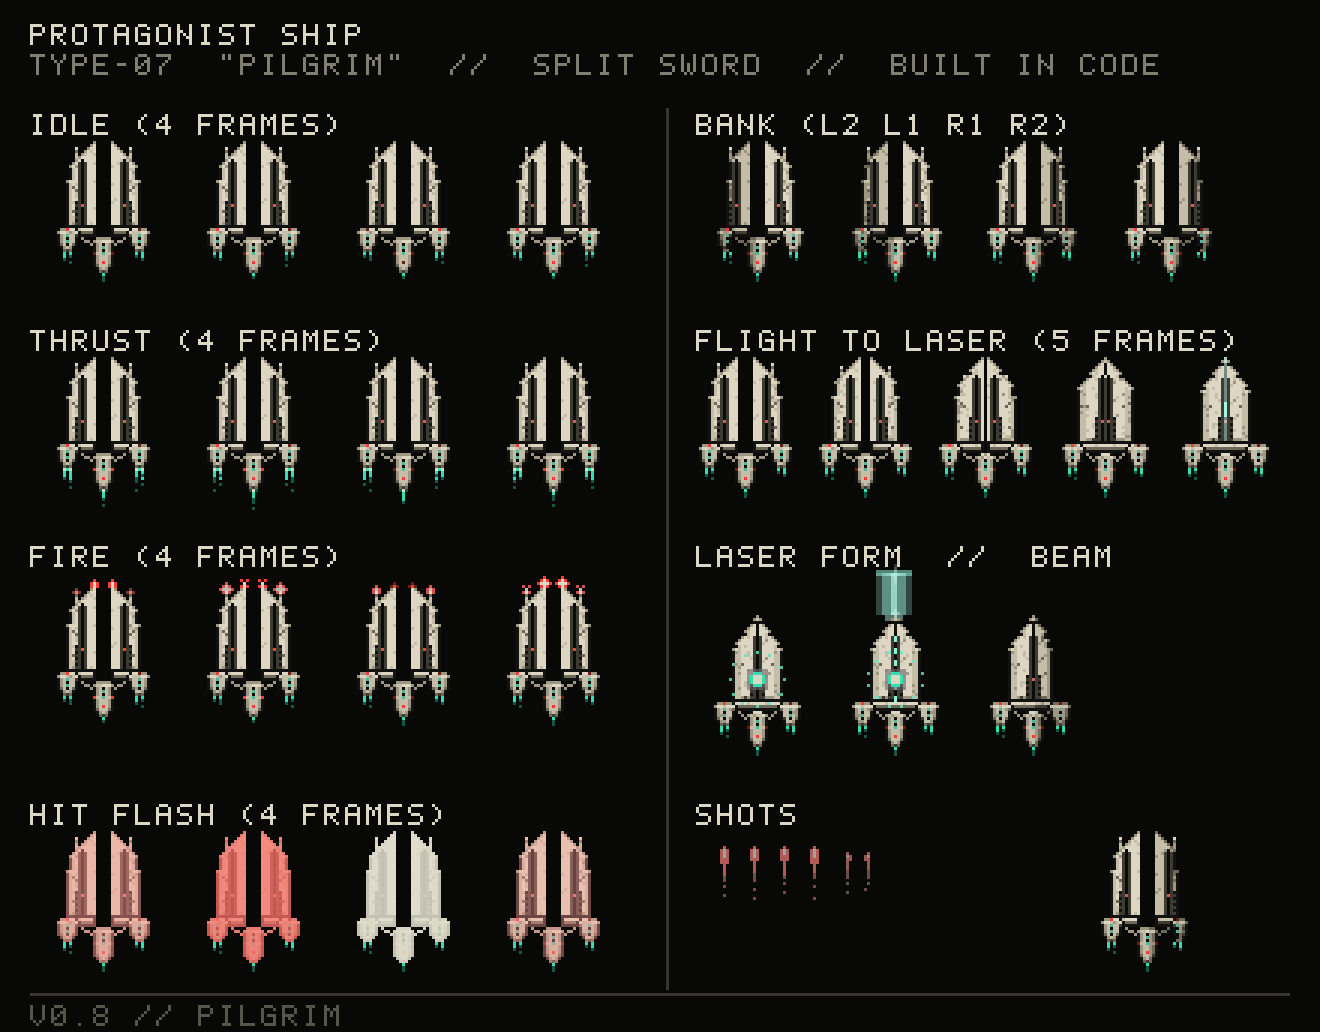
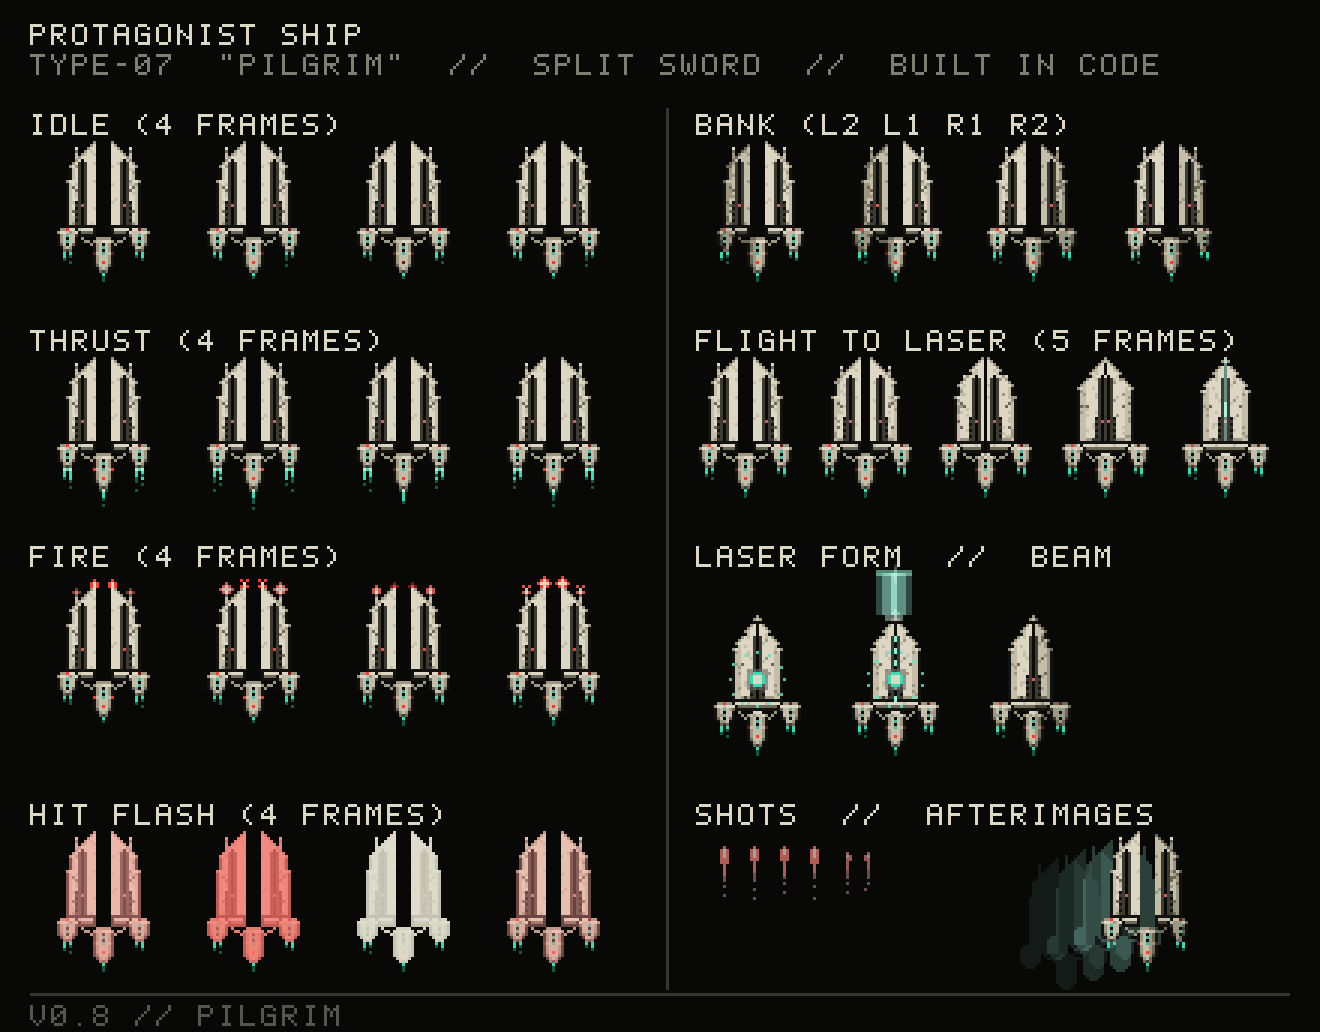
v0.8.3 Clean sides: banking keeps the white down the dipping side, and the afterimages are back
Jason: the teal outlines when moving were gone, and the muddy sides hadn't
changed; the side that dips loses its white, while the laser form's sides
stay clean.

The cause, behind every report since v0.7.3: to roll, ship.rs drops a column
or two from the dipping side. In flight form it took the two columns of white
stone between each blade's channel and its outline, so moving sideways left
the dark channel against the outline. The laser form's face is wide enough
that white survived the same drop.

dropped() now keeps FACE_KEEP (2) columns of stone outside the channel. It
narrows the inner face next, down to RAIL_KEEP (2): it takes the column at
the blade's inner edge, so the tip comes down a row and the top keeps one
even slope (a column from the middle left the tip standing alone). Below the
crossbar that drop moves to the column just outside the capsule, so drops
are now per row. After that it takes the nacelle's plain columns. The laser
form rolls exactly as before.

v0.8.2 removed the afterimages because I misread his screenshot; they're
restored as they were in v0.8.1, along with their test.

Checked: a new test proves the dipping side keeps two columns of stone, at
least one of them light, on every frame and bank, and that the blade's top
steps out at most one column a row; it fails on v0.8.2's roll. Play frames
captured while the bot moves sideways at full speed show the afterimages and
the intact stone. 237 tests pass in debug and release; native and web builds
[…]

diff --git a/src/render/ship.rs b/src/render/ship.rs
@@ -262,32 +262,63 @@ fn line(a: (i32, i32), b: (i32, i32)) -> Vec<(i32, i32)> {
         .collect()
 }
 
+/// Columns of stone a roll leaves inside the outline on the dipping side, outboard
+/// of the channel (the white face and its bevel) and inboard of it (the rail).
+const FACE_KEEP: usize = 2;
+const RAIL_KEEP: usize = 2;
+
+/// Up to `n` columns from the middle of `plain`.
+fn middle(plain: &[i32], n: usize) -> Vec<i32> {
+    plain.iter().skip((plain.len() / 2).saturating_sub(n.saturating_sub(1))).take(n).copied().collect()
+}
+
+const ROWS: usize = SIZE.1 as usize;
+/// A column a roll drops, row by row (`[y + CY]`).
+type Drop = [i32; ROWS];
+
 /// The columns a roll drops from the dipping side, one per step of the roll: plain
-/// stone from the middle of the blade's outer face (never a channel, a window, a
-/// light or the antenna), so the face foreshortens and everything outboard of it
-/// slides in whole.
-fn dropped(map: &Map, bank: i8) -> Vec<i32> {
+/// stone (never a channel, a window, a light or the antenna), so the side
+/// foreshortens and everything outboard of it slides in whole. The outer face
+/// always keeps its white stone and bevel: without them the channel runs straight
+/// into the outline and the side goes muddy. So a slim blade gives up its inner
+/// face first, then the nacelle's plain columns.
+fn dropped(map: &Map, bank: i8) -> Vec<Drop> {
     let side = bank.signum() as i32;
-    let precious = |x: i32| (-CY..=CY).any(|y| matches!(map.at(x, y).0, M::Core | M::Wall | M::Groove | M::Window | M::Red | M::Antenna | M::Seam));
-    let face: Vec<i32> = (1..=CX).rev().map(|x| x * side).filter(|&x| map.at(x, 0).0 == M::Face).collect();
-    let plain: Vec<i32> = face.iter().skip(1).copied().filter(|&x| !precious(x)).collect();
-    // beyond the blade, the nacelle's own plain columns (not its rim)
-    let edge = face.first().map_or(CX, |x| x.abs());
-    let outboard: Vec<i32> = (edge + 1..CX).map(|x| x * side).filter(|&x| !precious(x) && (-CY..=CY).any(|y| map.at(x, y).0 == M::Metal) && map.at(x + side, NACELLE_ROWS.0 + 2).0 != M::Empty).collect();
     let steps = bank.unsigned_abs() as usize;
     if steps == 0 {
         return vec![];
     }
-    let mid = plain.len() / 2;
-    let mut pick: Vec<i32> = plain.iter().skip(mid.saturating_sub(steps - 1)).take(steps).copied().collect();
-    pick.extend(outboard.iter().take(steps - pick.len()));
+    let precious = |x: i32, rows: std::ops::RangeInclusive<i32>| rows.into_iter().any(|y| matches!(map.at(x, y).0, M::Core | M::Wall | M::Groove | M::Window | M::Red | M::Antenna | M::Seam));
+    // the dipping side's columns, outermost first, by what they are on the hitbox's row
+    let cols: Vec<i32> = (1..=CX).rev().map(|x| x * side).collect();
+    let on = |m: M| cols.iter().copied().filter(move |&x| map.at(x, 0).0 == m);
+    let edge = on(M::Face).next().map_or(CX, |x| x.abs());
+    // the outer face: the stone between the outline and the channel
+    let stone: Vec<i32> = cols.iter().copied().filter(|&x| x.abs() < edge).take_while(|&x| !matches!(map.at(x, 0).0, M::Groove | M::Wall | M::Core)).collect();
+    let plain: Vec<i32> = stone.iter().copied().filter(|&x| map.at(x, 0).0 == M::Face && !precious(x, -CY..=CY)).collect();
+    let mut pick: Vec<Drop> = middle(&plain, steps.min(stone.len().saturating_sub(FACE_KEEP))).into_iter().map(|x| [x; ROWS]).collect();
+    // then the inner face, a column at a time off its edge, so the tip comes down a
+    // row and the bevelled top stays one even slope (a column from its middle left
+    // the tip standing alone); below the crossbar, the column just outside the
+    // capsule goes instead
+    let rail: Vec<i32> = on(M::Rail).collect();
+    for i in 0..(steps - pick.len()).min(rail.len().saturating_sub(RAIL_KEEP)) {
+        let (high, low) = (rail[rail.len() - 1 - i], (POD_W + 1 + i as i32) * side);
+        if precious(high, -CY..=POD_ROWS.0 - 1) || precious(low, POD_ROWS.0..=CY) {
+            break;
+        }
+        pick.push(std::array::from_fn(|r| if (r as i32 - CY) < POD_ROWS.0 { high } else { low }));
+    }
+    // then, beyond the blade, the nacelle's own plain columns (not its rim)
+    let outboard: Vec<i32> = (edge + 1..CX).map(|x| x * side).filter(|&x| !precious(x, -CY..=CY) && (-CY..=CY).any(|y| map.at(x, y).0 == M::Metal) && map.at(x + side, NACELLE_ROWS.0 + 2).0 != M::Empty).collect();
+    pick.extend(outboard.iter().take(steps - pick.len()).map(|&x| [x; ROWS]));
     pick
 }
 
-/// Where a column of the unrolled ship lands at a roll.
-fn roll_x(x: i32, drop: &[i32]) -> i32 {
-    let side = x.signum();
-    x - side * drop.iter().filter(|&&d| d.signum() == side && d.abs() < x.abs()).count() as i32
+/// Where a pixel of the unrolled ship lands at a roll (its row doesn't change).
+fn roll_x(x: i32, y: i32, drop: &[Drop]) -> i32 {
+    let (side, r) = (x.signum(), (y + CY).clamp(0, ROWS as i32 - 1) as usize);
+    x - side * drop.iter().filter(|d| d[r].signum() == side && d[r].abs() < x.abs()).count() as i32
 }
 
 /// The ship rolled by `bank`: the dipping side loses its dropped columns.
@@ -296,8 +327,8 @@ fn roll(map: &Map, bank: i8) -> Map {
     let mut out = Map::new();
     for y in -CY..=CY {
         for x in -CX..=CX {
-            if !drop.contains(&x) {
-                out.set(roll_x(x, &drop), y, map.at(x, y));
+            if !drop.iter().any(|d| d[(y + CY) as usize] == x) {
+                out.set(roll_x(x, y, &drop), y, map.at(x, y));
             }
         }
     }
@@ -589,7 +620,7 @@ fn frame_image(form: usize, bank: i8) -> (Image, Vec<Light>, [(i32, i32); 3], [(
     let flat = layout(k);
     let drop = dropped(&flat, bank);
     let map = roll(&flat, bank);
-    let at = |x: i32, y: i32| (roll_x(x, &drop), y);
+    let at = |x: i32, y: i32| (roll_x(x, y, &drop), y);
     let n = k.nacelle;
     let nozzles = [at(n, NACELLE_ROWS.1 + 2), at(-n, NACELLE_ROWS.1 + 2), at(0, POD_ROWS.1 + 2)];
     let tips = [at(k.inner, TIP), at(-k.inner, TIP)];
@@ -753,9 +784,18 @@ fn hit_overlay(a: &Atlas, sil: Rect, x: i32, y: i32, hit_t: u32) {
     a.blit(sil, x, y, 1, c);
 }
 
-/// The ship's silhouette at `(x, y)` (its hitbox), in one color: the respawn blink.
+/// The ship's silhouette at `(x, y)` (its hitbox), in one color: afterimages,
+/// the respawn blink.
 pub fn draw_silhouette(a: &Atlas, form: f32, bank: i8, x: i32, y: i32, c: Color) {
     a.blit(a.r.ship.frame(form, bank).sil, x - CX, y - CY, 1, c);
+}
+
+/// Teal afterimages of the ship at earlier positions (drawn under the ship).
+pub fn draw_afterimages(a: &Atlas, form: f32, bank: i8, at: &[(i32, i32)]) {
+    for (k, &(x, y)) in at.iter().enumerate() {
+        let alpha = [0.14, 0.08, 0.04][k.min(2)];
+        draw_silhouette(a, form, bank, x, y, Color { a: alpha, ..TEAL });
+    }
 }
 
 /// The hitbox dot and its ring, faded in with the focus blend.
@@ -892,6 +932,35 @@ mod tests {
                 let side = bank.signum() as i32;
                 assert!(reach(&r, side) < reach(&flat, side), "form {form} bank {bank}: the dipping side narrows");
                 assert_eq!(reach(&r, -side), reach(&flat, -side));
+            }
+        }
+    }
+
+    /// Rolling foreshortens the dipping side but never strips the stone outside its
+    /// channel: the white face and its bevel stay between the channel and the outline,
+    /// and the blade's tip stays one even slope. (Banked hard in flight, that side
+    /// used to lose both, leaving the dark channel against the outline.)
+    #[test]
+    fn rolling_keeps_the_white_down_the_dipping_side() {
+        for form in 0..FORMS {
+            for bank in [-2i8, -1, 1, 2] {
+                let side = bank.signum() as i32;
+                let map = roll(&layout(&KEYS[form]), bank);
+                let img = paint(&map, bank);
+                let shade = |x: i32, y: i32| luma(img.get_pixel((x + CX) as u32, (y + CY) as u32));
+                for y in [-12, -9, -4, 0, 4, 6] {
+                    // inward from the outline to the channel
+                    let blade: Vec<i32> = (1..=CX).rev().map(|x| x * side).filter(|&x| map.at(x, y).0 != M::Empty).collect();
+                    let stone: Vec<i32> = blade[1..].iter().copied().take_while(|&x| !matches!(map.at(x, y).0, M::Groove | M::Wall | M::Core)).collect();
+                    assert!(stone.len() >= FACE_KEEP, "form {form} bank {bank} row {y}: {} columns of stone", stone.len());
+                    assert!(stone.iter().any(|&x| shade(x, y) >= luma(BONE[2])), "form {form} bank {bank} row {y}: the stone stays light");
+                }
+                // the bevelled top: each row from the tip reaches at most one column
+                // further out than the row above it
+                let reach = |y: i32| (0..=CX).filter(|&x| x != 0 && solid(map.at(x * side, y).0)).count();
+                for y in TIP + 1..TIP + 6 {
+                    assert!(reach(y) <= reach(y - 1) + 1 || reach(y - 1) == 0, "form {form} bank {bank}: the top steps out one column a row at {y}");
+                }
             }
         }
     }

diff --git a/src/sim/player.rs b/src/sim/player.rs
@@ -30,6 +30,9 @@ impl Default for Tuning {
     }
 }
 
+/// Positions kept for afterimages, newest first.
+pub const HISTORY: usize = 8;
+
 pub struct Player {
     /// The hitbox center (the cross), sub-pixel; drawn snapped to the grid.
     pub x: f32,
@@ -56,6 +59,7 @@ pub struct Player {
     /// Hull flash frames left, and frames until it can flash again.
     pub hit_t: u32,
     pub bump_cd: u32,
+    pub history: [(f32, f32); HISTORY],
 }
 
 impl Player {
@@ -77,6 +81,7 @@ impl Player {
             volley: 0,
             hit_t: 0,
             bump_cd: 0,
+            history: [(START_X, START_Y); HISTORY],
         }
     }
 
@@ -92,6 +97,10 @@ impl Player {
     /// Speed this frame, px per frame.
     pub fn speed(&self, t: &Tuning) -> f32 {
         t.speed * (1.0 - self.blend(t) * (1.0 - t.focus_ratio))
+    }
+
+    pub fn focused(&self) -> bool {
+        self.focus_t > 0
     }
 
     /// Thrusting: moving up the screen this frame.
@@ -151,16 +160,20 @@ impl Player {
             self.bank_t = 0;
         }
 
+        self.history.rotate_right(1);
+        self.history[0] = (self.x, self.y);
         self.hit_t = self.hit_t.saturating_sub(1);
         self.bump_cd = self.bump_cd.saturating_sub(1);
     }
 
-    /// Put the ship somewhere directly (the respawn fly-in).
+    /// Put the ship somewhere directly (the respawn fly-in), keeping the trail and pods sensible.
     pub fn place(&mut self, x: f32, y: f32) {
         self.dx = x - self.x;
         self.dy = y - self.y;
         self.x = x;
         self.y = y;
+        self.history.rotate_right(1);
+        self.history[0] = (x, y);
     }
 
     /// Where the pods' guns are this frame.
@@ -340,4 +353,13 @@ mod tests {
         assert_eq!(p.locked, 0, "parting the moment focus is let go");
     }
 
+    #[test]
+    fn afterimage_history_is_newest_first() {
+        let t = Tuning::default();
+        let mut p = Player::new();
+        p.step(&held((1.0, 0.0)), &t);
+        p.step(&held((1.0, 0.0)), &t);
+        assert_eq!(p.history[0].0, p.x);
+        assert_eq!(p.history[1].0, p.x - MOVE_SPEED);
+    }
 }

diff --git a/src/render/scene.rs b/src/render/scene.rs
@@ -11,7 +11,7 @@ use crate::sim::{BombBlast, Life, World};
 use crate::sim::geom::Rect as SimRect;
 use crate::sim::shots::ShotKind;
 use crate::sim::stage1::frames;
-use crate::tune::{AURA_R, BEAM_W, BG_DIM_AT, BG_DIM_MIN, BG_MAX_VALUE, DEBRIS_AT, FIGURE_AT, FLARE, GRAIN, HITBOX_R, HOLE_R, HOLE_X, HOLE_Y, SECTIONS, STAGE_FRAMES};
+use crate::tune::{AFTERIMAGE_MIN, AURA_R, BEAM_W, BG_DIM_AT, BG_DIM_MIN, BG_MAX_VALUE, DEBRIS_AT, FIGURE_AT, FLARE, GRAIN, HITBOX_R, HOLE_R, HOLE_X, HOLE_Y, SECTIONS, STAGE_FRAMES};
 use macroquad::color::Color;
 
 /// Max opacity of the Pilgrim's shots, so they never read as enemy bullets.
@@ -149,7 +149,14 @@ pub fn draw(r: &Renderer, lay: &Layout, w: &World, hitboxes: bool, show_dot: boo
         draw_aura(a, px, py, w.frame);
     }
 
+    // afterimages at full speed
+    let moving = (p.dx * p.dx + p.dy * p.dy).sqrt();
     let form = p.blend(&w.tuning);
+    if shown && !p.focused() && moving >= w.tuning.speed * AFTERIMAGE_MIN {
+        let at = [2, 4, 6].map(|k| (ox + snap(p.history[k].0), oy + snap(p.history[k].1)));
+        ship::draw_afterimages(a, form, p.bank, &at);
+    }
+
     let pose = Pose {
         bank: p.bank,
         form,

diff --git a/src/sheet.rs b/src/sheet.rs
@@ -71,7 +71,7 @@ fn draw_sheet(a: &Atlas) {
     let (kx, ky) = (232 + 112, row(182) + 14);
     ship::draw(a, kx, ky, &Pose { bank: 2, frame: 4, ..laser });
     let shot = Color::new(1.0, 1.0, 1.0, 0.6);
-    label("SHOTS", 232, 268);
+    label("SHOTS  //  AFTERIMAGES", 232, 268);
     for i in 0..4 {
         a.blit(a.r.ship.bolt[i], 232 + 8 + i as i32 * 10, 282, 1, shot);
     }
@@ -79,6 +79,7 @@ fn draw_sheet(a: &Atlas) {
         a.blit(a.r.ship.pod_shot[i], 232 + 50 + i as i32 * 6, 284, 1, Color::new(1.0, 1.0, 1.0, 0.45));
     }
     let (ax, ay) = (232 + 150, row(268));
+    ship::draw_afterimages(a, 0.0, 2, &[(ax - 9, ay + 3), (ax - 18, ay + 6), (ax - 27, ay + 9)]);
     ship::draw(a, ax, ay, &Pose { bank: 2, frame: 4, ..base });
     a.fill(10, SHEET.1 as i32 - 13, SHEET.0 as i32 - 20, 1, DUSK);
     text(a, &crate::render::hud::version_stamp(), 10, SHEET.1 as i32 - 9, 1, 2, SLATE);

diff --git a/src/sim/mod.rs b/src/sim/mod.rs
@@ -581,6 +581,7 @@ impl World {
                 } else {
                     self.player = Player::new();
                     self.player.place(START_X, FIELD_H as f32 + 24.0);
+                    self.player.history = [(START_X, FIELD_H as f32 + 24.0); player::HISTORY];
                     self.bombs = BOMBS;
                     self.invuln = RESPAWN_INVULN;
                     self.invuln_blink = true;

diff --git a/src/tune.rs b/src/tune.rs
@@ -677,6 +677,8 @@ pub const TOUCH_SENS: f32 = 1.0;
 pub const TOUCH_SENS_RANGE: (f32, f32, f32) = (0.5, 2.5, 0.1);
 /// Left stick deadzone.
 pub const STICK_DEADZONE: f32 = 0.25;
+/// Afterimages show when moving at least this share of full speed, unfocused.
+pub const AFTERIMAGE_MIN: f32 = 0.9;
 
 // ------------------------------------------------------------------ sound
 

diff --git a/src/render/art.rs b/src/render/art.rs
@@ -48,7 +48,7 @@ impl Packer {
         r
     }
 
-    /// Add an image and its white silhouette (for flashes and blinks).
+    /// Add an image and its white silhouette (for flashes and afterimages).
     pub fn add_with_silhouette(&mut self, src: &Image) -> (Rect, Rect) {
         (self.add(src), self.add(&silhouette(src)))
     }

diff --git a/MEMORY.md b/MEMORY.md
@@ -3,6 +3,33 @@
 Session notes for Claude Code: what shipped, tuning that changed, known issues, what's next.
 Newest first.
 
+## v0.8.3 Clean sides - 2026-10-12
+
+**Jason:** "the ship teal outlines when moving are gone now!!! and the muddy sides have not
+changed ... that right side is not clean because the side loses the white ... when the ship is
+together making the laser, the sides are clean." So v0.8.2 was a misread: he LIKES the
+afterimages (restored from v0.8.1 byte for byte: scene pass, `draw_afterimages`,
+`AFTERIMAGE_MIN 0.9`, `Player.history`, `Player::focused`, the sheet demo, the test). The real
+problem all along (v0.7.3 "flickering lines", v0.8.1 "led lines", v0.8.2 screenshot): `roll()`
+dropped the 2 white face columns outside each flight-form channel on the dipping side. Fix in
+ship.rs `dropped()`: the outer face keeps `FACE_KEEP 2` columns of stone; then the rail gives a
+column off its INNER EDGE (a mid-rail column left the tip as a lone pixel), switching below
+`POD_ROWS.0` to the column just outside the capsule (drops are per row now: `type Drop =
+[i32; ROWS]`, `roll_x(x, y, drop)`), keeping `RAIL_KEEP 2`; then the nacelle's plain columns.
+Forms 2-4 (laser) roll exactly as before. Test `rolling_keeps_the_white_down_the_dipping_side`.
+The dipping side is still a tone darker (`dip` in `paint`), which he called clean on the laser.
+Channels stay dark in flight (v0.8.1). 237 tests.
+
+**Next (Jason asked):** redraw the Pilgrim from his new sprites in `docs/reference/ship/`
+("Closed Swordship Firing Animation Strip.png": 6 laser-form frames; "Modular sword spacecraft
+sprite atlas.png": blades, nacelles, capsule, struts; plus the split-sword ref, which he moved
+there along with jawsthic.jpg into `docs/reference/stage 1 bosss/`; those moves are still
+uncommitted and SPRINTS.md links the old paths). A straight shrink to ~20x46 turns to mud, so
+the plan he OK'd is a pixel-by-pixel redraw at game size from his art: parts slide for the
+transformation and the roll (no mesh, no resampling), his 6 frames become the laser form's
+firing cycle without their baked flames and tip star; keep my thrusters, beam, bullets and
+afterimages.
+
 ## v0.8.2 No ghosts - 2026-10-12
 
 **Jason** sent a screenshot: the "led lines on both sides of the ship" that interfere when

diff --git a/CHANGELOG.md b/CHANGELOG.md
@@ -3,6 +3,36 @@
 Every version is one build sprint. Newest first. Versions are tagged in git, and
 each tag publishes a GitHub Release with downloads.
 
+## [0.8.3] - 2026-10-12 - Clean sides
+
+### Fixed
+- **Banking keeps the white down the dipping side.** To roll, the ship drops a
+  column or two from the side that dips. In flight form those were the two columns
+  of white stone outside each blade's channel, so moving sideways left the dark
+  channel right against the outline: the muddy side in your screenshot, and the
+  lines that seemed to move left or vanish. The roll now leaves that stone and its
+  bevel alone. It narrows the inner face instead, taking the column at the blade's
+  inner edge so the tip comes down a row and the top keeps one even slope, then a
+  plain column of the engine ([the bank frames](docs/screenshots/pilgrim-sheet.png)).
+  The laser form, whose sides were already clean, banks exactly as before.
+
+### Restored
+- **The teal afterimages are back.** v0.8.2 removed them because I misread your
+  screenshot; the trouble was the muddy side, not the ghosts. They trail the ship
+  at full speed again, exactly as in v0.8.1 ([in play](docs/screenshots/stage.png)).
+  The dark channels in flight from v0.8.1 stay.
+
+### Checked
+- **Tests prove** that on every frame of the transformation, banked either way:
+  - at least two columns of stone stay between the channel and the outline on the
+    dipping side, and at least one of them is light;
+  - the blade's top steps out at most one column a row from its tip.
+  The first test fails on v0.8.2's roll. The afterimage test is back too.
+- Play frames captured while the bot moves sideways at full speed show the
+  afterimages trailing and the dipping blade's stone intact.
+- Every screenshot showing the ship is retaken. Native and web builds are
+  warning-free, and all 237 tests pass in both debug (as CI runs them) and release.
+
 ## [0.8.2] - 2026-10-12 - No ghosts
 
 ### Changed

diff --git a/SPRINTS.md b/SPRINTS.md
@@ -115,7 +115,7 @@ a version stamp bottom-left (`V0.1 // PILGRIM`) and a tagline bottom-right.
 - No inertia. Normalized diagonals. The same speed on both axes.
 - Focus means slower movement plus a concentrated beam, with the speed change blended over a few frames.
 - The hitbox sits exactly in the center of the ship and shows while focused.
-- Smooth movement comes from visuals: banking matched to speed, engine trails, the blades closing for focus. (The afterimages are gone since v0.8.2: they smeared beside the ship when it moved side to side.)
+- Smooth movement comes from visuals: banking matched to speed, afterimages, trails, the blades closing for focus. (Since v0.8.3 a bank never takes the white stone outside a blade's channel, so the dipping side stays clean.)
 
 **Shooting**
 - Player shots are fast, long, dense and a little messy. Big shot hitboxes, big enemy hurtboxes, low emitters, so you can hit an enemy you're sitting right under.

diff --git a/README.md b/README.md
@@ -74,7 +74,7 @@ full screen (F11 for a window).
 **v0.7.1, the split sword:** the Pilgrim is redesigned from Jason's sheet: two
 bone-white blades with teal channels, on a crossbar with an engine at each end.
 When you focus, the blades close into one broad sword and the teal beam fires from
-its tip. It flies exactly as before.
+its tip. It flies exactly as before. Banked, both blades keep their white edges (v0.8.3).
 
 **v0.7, the boss:** JAWSTHIC, a great white carved from moon rock with a gothic
 cathedral for a body, from Jason's concept. Its fin cuts through the black hole's
